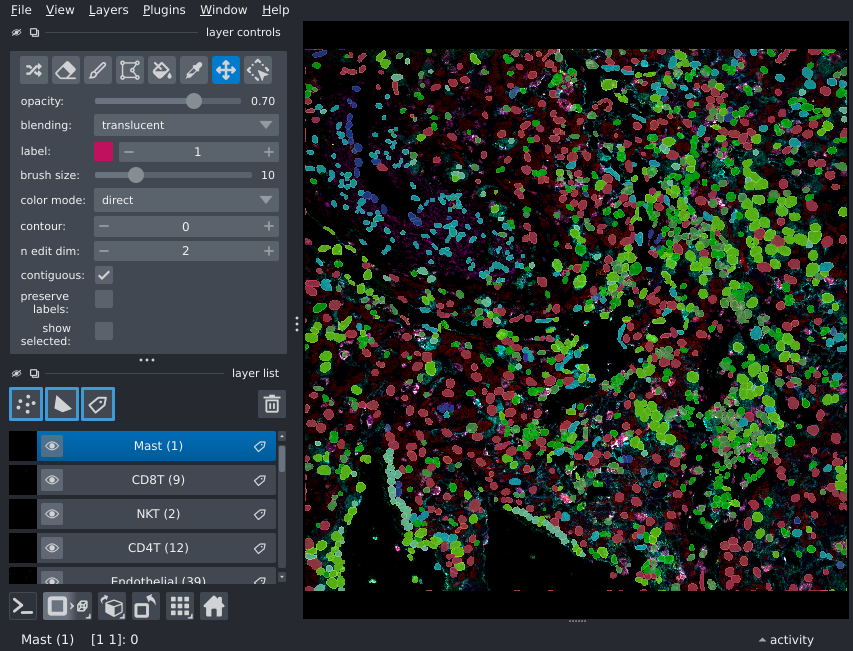
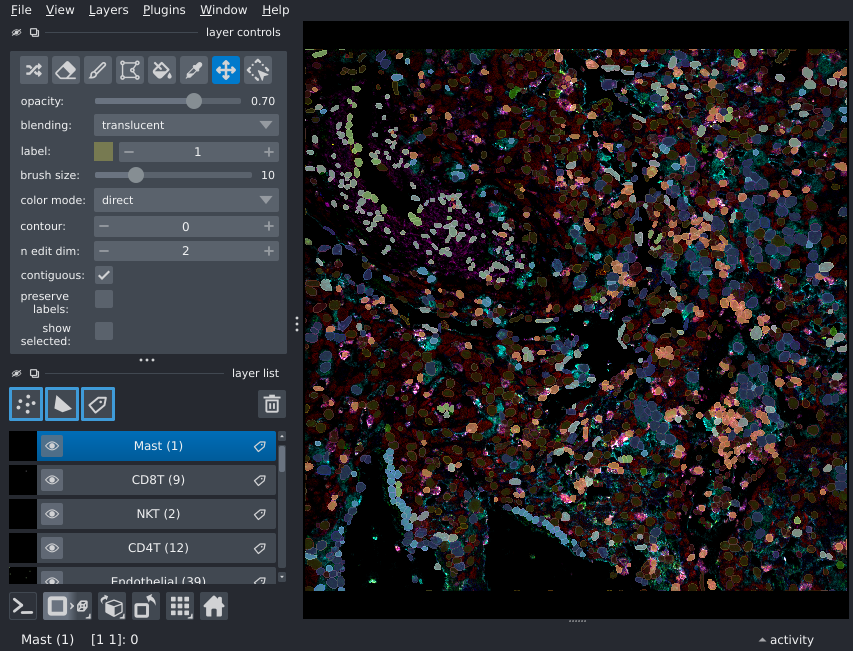
Update documentation

diff --git a/site/tutorial.html b/site/tutorial.html
@@ -679,77 +679,7 @@ See the <a class="reference external" href="https://vanvalenlab.github.io/cellSA
 <p class="expanded admonition-title">Hide code cell output</p>
 </summary>
 <div class="cell_output docutils container">
-<div class="output stderr highlight-myst-ansi notranslate"><div class="highlight"><pre><span></span>/data/xwang3/.cache/dct-docs-venv/lib/python3.12/site-packages/torch/cuda/__init__.py:1054: UserWarning: Can&#39;t initialize NVML
-  uuids = _raw_device_uuid_nvml()
-</pre></div>
-</div>
 <div class="output stream highlight-myst-ansi notranslate"><div class="highlight"><pre><span></span>Total blocks: 16
-</pre></div>
-</div>
-<div class="output stderr highlight-myst-ansi notranslate"><div class="highlight"><pre><span></span>0it [00:00, ?it/s]
-</pre></div>
-</div>
-<div class="output stderr highlight-myst-ansi notranslate"><div class="highlight"><pre><span></span>1it [00:01,  1.86s/it]
-</pre></div>
-</div>
-<div class="output stderr highlight-myst-ansi notranslate"><div class="highlight"><pre><span></span>2it [00:03,  1.44s/it]
-</pre></div>
-</div>
-<div class="output stderr highlight-myst-ansi notranslate"><div class="highlight"><pre><span></span>3it [00:04,  1.46s/it]
-</pre></div>
-</div>
-<div class="output stderr highlight-myst-ansi notranslate"><div class="highlight"><pre><span></span>4it [00:05,  1.41s/it]
-</pre></div>
-</div>
-<div class="output stderr highlight-myst-ansi notranslate"><div class="highlight"><pre><span></span>5it [00:07,  1.36s/it]
-</pre></div>
-</div>
-<div class="output stderr highlight-myst-ansi notranslate"><div class="highlight"><pre><span></span>6it [00:08,  1.41s/it]
-</pre></div>
-</div>
-<div class="output stderr highlight-myst-ansi notranslate"><div class="highlight"><pre><span></span>7it [00:10,  1.56s/it]
-</pre></div>
-</div>
-<div class="output stderr highlight-myst-ansi notranslate"><div class="highlight"><pre><span></span>8it [00:11,  1.51s/it]
-</pre></div>
-</div>
-<div class="output stderr highlight-myst-ansi notranslate"><div class="highlight"><pre><span></span>9it [00:13,  1.42s/it]
-</pre></div>
-</div>
-<div class="output stderr highlight-myst-ansi notranslate"><div class="highlight"><pre><span></span>10it [00:14,  1.42s/it]
-</pre></div>
-</div>
-<div class="output stderr highlight-myst-ansi notranslate"><div class="highlight"><pre><span></span>11it [00:15,  1.44s/it]
-</pre></div>
-</div>
-<div class="output stderr highlight-myst-ansi notranslate"><div class="highlight"><pre><span></span>12it [00:17,  1.44s/it]
-</pre></div>
-</div>
-<div class="output stderr highlight-myst-ansi notranslate"><div class="highlight"><pre><span></span>13it [00:18,  1.40s/it]
-</pre></div>
-</div>
-<div class="output stderr highlight-myst-ansi notranslate"><div class="highlight"><pre><span></span>14it [00:19,  1.32s/it]
-</pre></div>
-</div>
-<div class="output stderr highlight-myst-ansi notranslate"><div class="highlight"><pre><span></span>15it [00:21,  1.31s/it]
-</pre></div>
-</div>
-<div class="output stderr highlight-myst-ansi notranslate"><div class="highlight"><pre><span></span>16it [00:22,  1.28s/it]
-</pre></div>
-</div>
-<div class="output stderr highlight-myst-ansi notranslate"><div class="highlight"><pre><span></span>16it [00:22,  1.40s/it]
-</pre></div>
-</div>
-<div class="output stderr highlight-myst-ansi notranslate"><div class="highlight"><pre><span></span>
-</pre></div>
-</div>
-<div class="output stderr highlight-myst-ansi notranslate"><div class="highlight"><pre><span></span>  0%|          | 0/24 [00:00&lt;?, ?it/s]
-</pre></div>
-</div>
-<div class="output stderr highlight-myst-ansi notranslate"><div class="highlight"><pre><span></span>100%|██████████| 24/24 [00:00&lt;00:00, 343.88it/s]
-</pre></div>
-</div>
-<div class="output stderr highlight-myst-ansi notranslate"><div class="highlight"><pre><span></span>
 </pre></div>
 </div>
 </div>
@@ -907,35 +837,6 @@ checkpoint was trained against.</p>
 <p class="expanded admonition-title">Hide code cell output</p>
 </summary>
 <div class="cell_output docutils container">
-<div class="output stderr highlight-myst-ansi notranslate"><div class="highlight"><pre><span></span>/data/xwang3/.cache/dct-docs-venv/lib/python3.12/site-packages/torch/cuda/__init__.py:1054: UserWarning: Can&#39;t initialize NVML
-  uuids = _raw_device_uuid_nvml()
-</pre></div>
-</div>
-<div class="output stderr highlight-myst-ansi notranslate"><div class="highlight"><pre><span></span>/data/xwang3/Projects/deepcell-types/deepcell_types/predict.py:466: UserWarning: 5 of 37 input channels were masked out; prediction uses the remaining 32 marker(s). Masked: ECAD (not in the marker registry); GRB (not in the marker registry); H3 (not in the marker registry); HLAG (not in the marker registry); VIM (not in the marker registry).
-  dataset = PatchDataset(
-</pre></div>
-</div>
-<div class="output stderr highlight-myst-ansi notranslate"><div class="highlight"><pre><span></span>(inference):   0%|          | 0/7 [00:00&lt;?, ?it/s]
-</pre></div>
-</div>
-<div class="output stderr highlight-myst-ansi notranslate"><div class="highlight"><pre><span></span>(inference):  14%|█▍        | 1/7 [00:12&lt;01:15, 12.66s/it]
-</pre></div>
-</div>
-<div class="output stderr highlight-myst-ansi notranslate"><div class="highlight"><pre><span></span>(inference):  43%|████▎     | 3/7 [00:12&lt;00:13,  3.33s/it]
-</pre></div>
-</div>
-<div class="output stderr highlight-myst-ansi notranslate"><div class="highlight"><pre><span></span>(inference):  71%|███████▏  | 5/7 [00:12&lt;00:03,  1.65s/it]
-</pre></div>
-</div>
-<div class="output stderr highlight-myst-ansi notranslate"><div class="highlight"><pre><span></span>(inference): 100%|██████████| 7/7 [00:13&lt;00:00,  1.01it/s]
-</pre></div>
-</div>
-<div class="output stderr highlight-myst-ansi notranslate"><div class="highlight"><pre><span></span>(inference): 100%|██████████| 7/7 [00:13&lt;00:00,  1.88s/it]
-</pre></div>
-</div>
-<div class="output stderr highlight-myst-ansi notranslate"><div class="highlight"><pre><span></span>
-</pre></div>
-</div>
 </div>
 </details>
 </div>
@@ -947,8 +848,8 @@ mapping explicit:</p>
 <div class="admonition note">
 <p class="admonition-title">Note</p>
 <p><strong>Low-confidence abstention.</strong> Abstention is opt-in. By default
-(<code class="docutils literal notranslate"><span class="pre">ct_abstention_k=None</span></code>) <code class="docutils literal notranslate"><span class="pre">predict</span></code> returns the raw argmax label for <em>every</em>
-cell. To enable it, pass a float <code class="docutils literal notranslate"><span class="pre">k</span></code>: <code class="docutils literal notranslate"><span class="pre">predict</span></code> then flags cells whose
+(<code class="docutils literal notranslate"><span class="pre">ct_abstention_k=0</span></code>) <code class="docutils literal notranslate"><span class="pre">predict</span></code> returns the raw argmax label for <em>every</em>
+cell. To enable it, pass a positive float <code class="docutils literal notranslate"><span class="pre">k</span></code>: <code class="docutils literal notranslate"><span class="pre">predict</span></code> then flags cells whose
 top-class probability falls below an IQR fence on the field-of-view’s
 confidence distribution and rewrites their label to the sentinel <code class="docutils literal notranslate"><span class="pre">&quot;Unknown&quot;</span></code>.
 The paper’s headline numbers are full-coverage (no abstention); <code class="docutils literal notranslate"><span class="pre">k=0.2</span></code> is a

diff --git a/index.html b/index.html
@@ -368,30 +368,6 @@ See <a class="reference internal" href="site/API-key.html"><span class="doc">Mod
 </pre></div>
 </div>
 </section>
-<section id="tissuenet-archive-optional">
-<h2>TissueNet archive (optional)<a class="headerlink" href="#tissuenet-archive-optional" title="Link to this heading">#</a></h2>
-<p><code class="docutils literal notranslate"><span class="pre">predict()</span></code> does <strong>not</strong> require the TissueNet archive: the marker / cell-type
-registry it needs ships with the package as a small <code class="docutils literal notranslate"><span class="pre">vocab.json</span></code> snapshot, so
-the base install above + <code class="docutils literal notranslate"><span class="pre">download_model()</span></code> is enough to run inference.</p>
-<p>The (multi-GB) <code class="docutils literal notranslate"><span class="pre">tissuenet-v*.zarr</span></code> archive is only needed if you want the
-tissue→cell-type mapping or are reproducing the training pipeline. It is
-distributed as a <code class="docutils literal notranslate"><span class="pre">.zip</span></code> that must be extracted before use:</p>
-<div class="highlight-python notranslate"><div class="highlight"><pre><span></span><span class="kn">from</span><span class="w"> </span><span class="nn">deepcell_types.utils</span><span class="w"> </span><span class="kn">import</span> <span class="n">download_training_data</span>
-
-<span class="c1"># Downloads the .zip and extracts it; returns the extraction directory</span>
-<span class="c1"># containing the tissuenet-v*.zarr archive. (Large download — see API-key page.)</span>
-<span class="n">archive_dir</span> <span class="o">=</span> <span class="n">download_training_data</span><span class="p">(</span><span class="n">extract</span><span class="o">=</span><span class="kc">True</span><span class="p">)</span>
-</pre></div>
-</div>
-<p>When you do have an archive, point <code class="docutils literal notranslate"><span class="pre">predict</span></code> at it with the <code class="docutils literal notranslate"><span class="pre">zarr_path=</span></code>
-argument, or set it once for the session:</p>
-<div class="highlight-bash notranslate"><div class="highlight"><pre><span></span><span class="nb">export</span><span class="w"> </span><span class="nv">DEEPCELL_TYPES_ZARR_PATH</span><span class="o">=</span>/path/to/tissuenet-v10.zarr
-</pre></div>
-</div>
-<p>An explicit <code class="docutils literal notranslate"><span class="pre">zarr_path=</span></code> that doesn’t contain an archive raises
-<code class="docutils literal notranslate"><span class="pre">FileNotFoundError</span></code>; the checkpoint and registry must agree on the marker and
-cell-type ordering, otherwise loading fails early with a <code class="docutils literal notranslate"><span class="pre">ValueError</span></code>.</p>
-</section>
 <section id="running">
 <h2>Running<a class="headerlink" href="#running" title="Link to this heading">#</a></h2>
 <p>The <a class="reference internal" href="site/tutorial.html"><span class="doc">Tutorial</span></a> demonstrates how to set up, run, and visualize the
@@ -487,19 +463,13 @@ in <code class="docutils literal notranslate"><span class="pre">zarr</span></cod
 </div>
 <p>The end-to-end training and evaluation scripts live under <code class="docutils literal notranslate"><span class="pre">scripts/</span></code>:</p>
 <ul class="simple">
-<li><p><code class="docutils literal notranslate"><span class="pre">scripts/train.py</span></code> — main training entry point (DCTConfig + FullImageDataset</p>
-<ul>
-<li><p>FocalLoss / HierarchicalLoss + OneCycleLR; supports the FOV-grouped
-sampler and the conditioned marker-positivity head).</p></li>
-</ul>
-</li>
+<li><p><code class="docutils literal notranslate"><span class="pre">scripts/train.py</span></code> — main training entry point.</p></li>
 <li><p><code class="docutils literal notranslate"><span class="pre">scripts/predict.py</span></code> — batched predictions over a zarr archive, with
 optional hierarchy-aware evaluation.</p></li>
 <li><p><code class="docutils literal notranslate"><span class="pre">scripts/pretrain.py</span></code> — masked-marker pretraining stage.</p></li>
 </ul>
 <p>All training scripts read mappings and metadata from a TissueNet zarr v3
-archive (<code class="docutils literal notranslate"><span class="pre">tissuenet-v10.zarr</span></code> is the current canonical release; v8 and v9
-are also accepted). Pass the archive path with
+archive (<code class="docutils literal notranslate"><span class="pre">expanded-tissuenet.zarr</span></code>). Pass the archive path with
 <code class="docutils literal notranslate"><span class="pre">--zarr_dir</span></code> (training scripts) or via the <code class="docutils literal notranslate"><span class="pre">DEEPCELL_TYPES_ZARR_PATH</span></code>
 environment variable (<code class="docutils literal notranslate"><span class="pre">deepcell_types.predict</span></code>).</p>
 <div class="toctree-wrapper compound">
@@ -547,7 +517,6 @@ environment variable (<code class="docutils literal notranslate"><span class="pr
     <ul class="pst-show_toc_level nav section-nav flex-column">
 <li class="toc-h2 nav-item toc-entry"><a class="reference internal nav-link" href="#installation">Installation</a></li>
 <li class="toc-h2 nav-item toc-entry"><a class="reference internal nav-link" href="#pre-trained-models">Pre-trained models</a></li>
-<li class="toc-h2 nav-item toc-entry"><a class="reference internal nav-link" href="#tissuenet-archive-optional">TissueNet archive (optional)</a></li>
 <li class="toc-h2 nav-item toc-entry"><a class="reference internal nav-link" href="#running">Running</a></li>
 <li class="toc-h2 nav-item toc-entry"><a class="reference internal nav-link" href="#limitations">Limitations</a></li>
 <li class="toc-h2 nav-item toc-entry"><a class="reference internal nav-link" href="#training">Training</a></li>